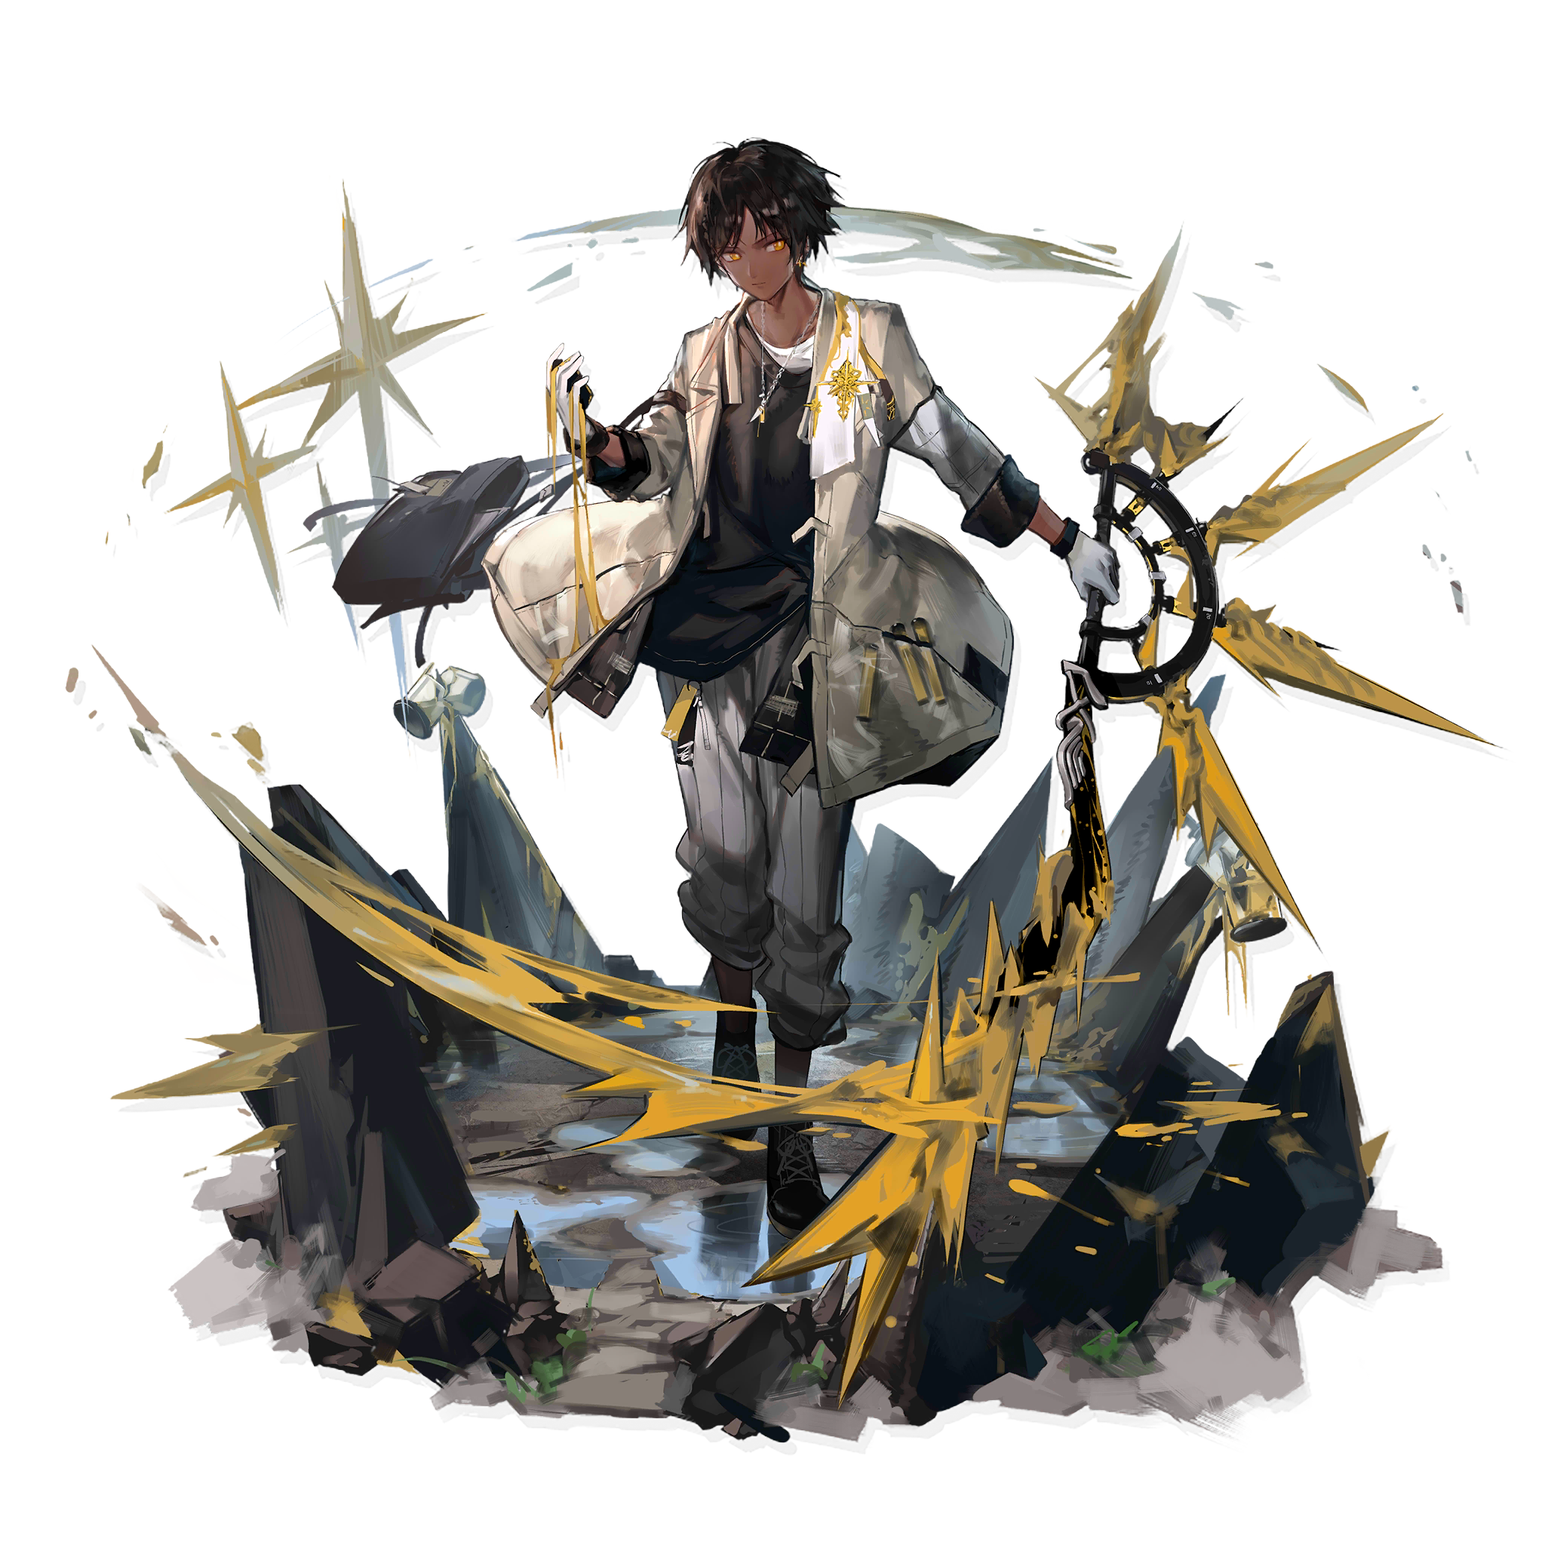
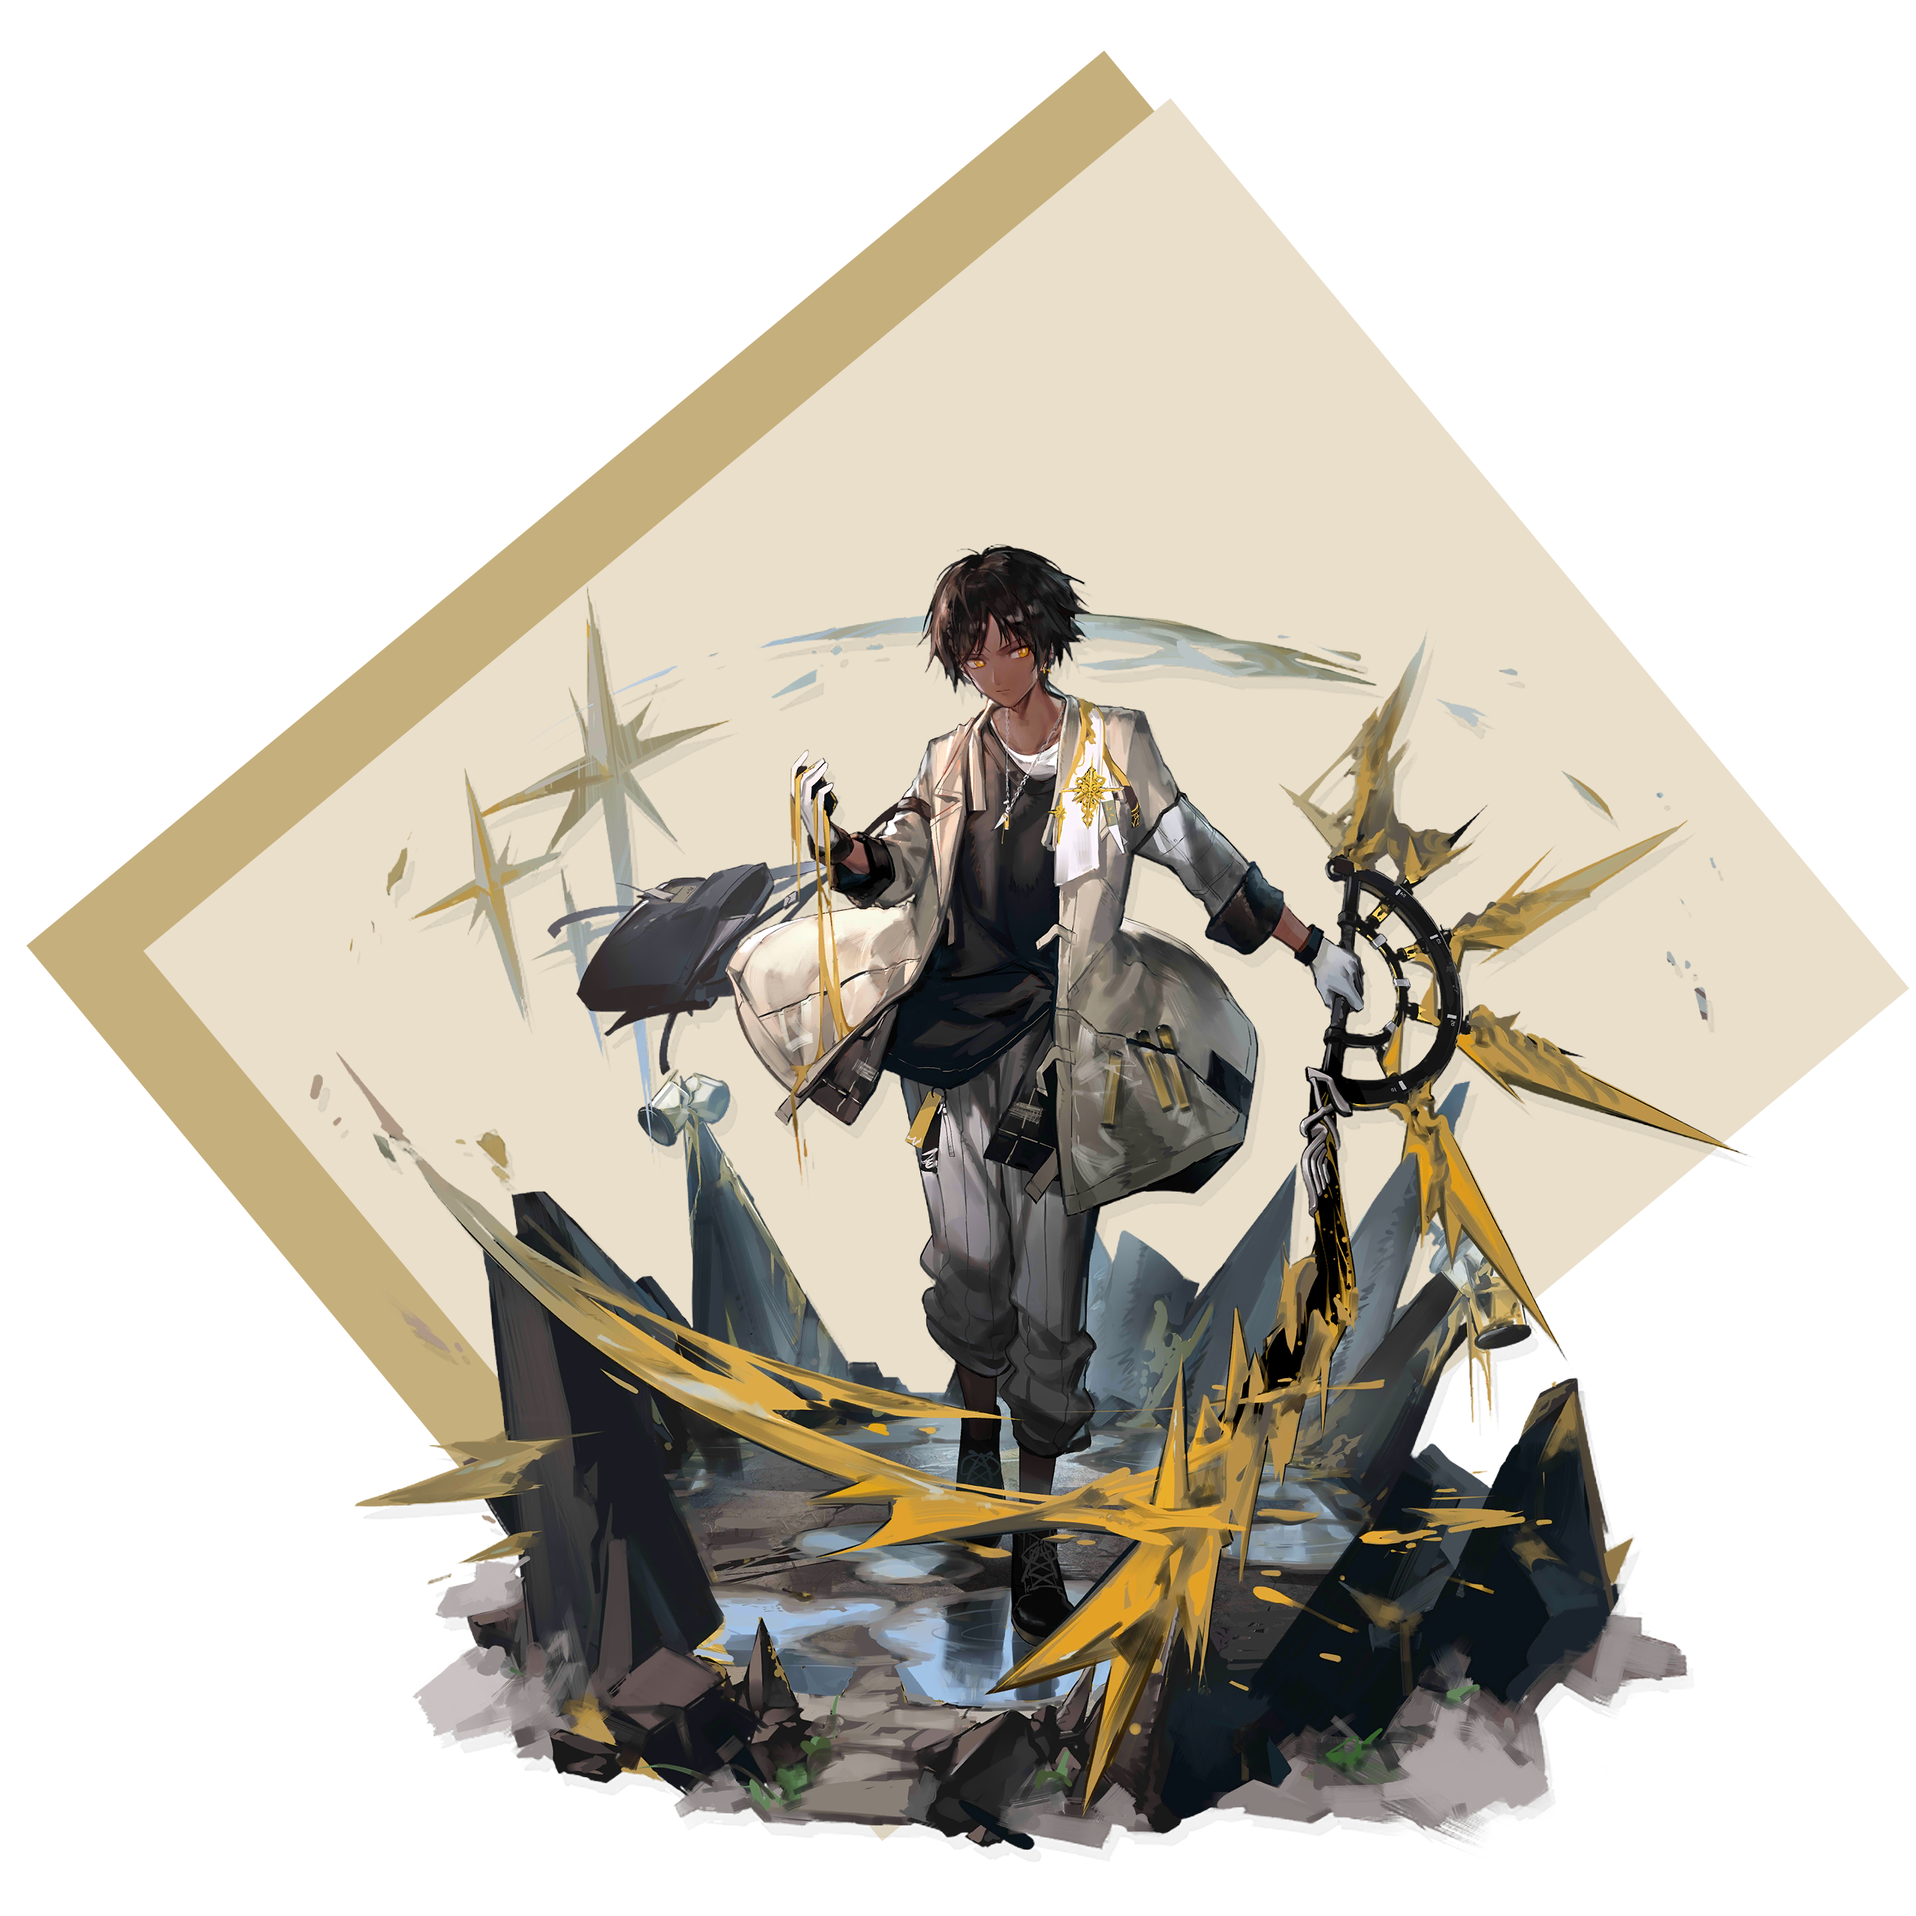
editing header

diff --git a/style.css b/style.css
@@ -6,16 +6,16 @@ body{
     font-family: Proxima;
     margin: 0;
 }
-.header-decor-1{
-    position: absolute;
-    transform: rotate(-30deg);
-    width: 800px; height: 600px;
-    top : -10px;
-    right: 500px;
-    z-index: -3;
-    background-color: #e9dfcb ;
+.header{
+    height: 1000px;
+    position: relative;
 }
-
+.logo{
+    position: absolute;
+    top: -50px;
+    left: 10px;
+    width: 80px;
+}
 ul{
     margin: 50px auto;
     width: 1100px;
@@ -27,7 +27,7 @@ li{
 }
 li a {
     font-size: 25px;
-    color: #c5af7d;
+    color: white;
     display: block;
     padding: 15px 20px;
     border-radius: 3px;
@@ -38,44 +38,36 @@ li a:hover{
 }
 .character{
     z-index: -1;
-    top: 0;
+    top: -250px; left: -150px;
     position: absolute;
-    width: 850px;
+    width: 1050px;
 }
 
 .greetings{
-    color: #414141;
-    line-height: 15px;
+    color: #c5af7d;
     position: relative;
-    top: 40px;
-    right: 50px;
+    top: 70px;
+    right: 100px;
     float: right;
-    width: 400px;
+}
+.greetings h1{
+    font-size: 55px;
 }
 .greetings h2{
     z-index: -1;
-    font-size: 90px;
+    bottom: 25px; right: 150px;
+    font-size: 120px;
     color: #e9dfcb;
     position: absolute;
-    bottom: 50px;
-    right: 230px;
-}
-.greetings h1{
-    line-height: 30px;
-}
-.greetings h1 span{
-    color: #c5af7d;
 }
 
 
-.char-display{
-    position: relative;
-    top: 100px;
-    left: 850px;
-    width: 200px;
-    clear: both;
+
+.headerBackground{
+    opacity: 80%;
+    top: -50px;
+    width: 100%;
+    position: absolute;
+    z-index: -10;
 }
 
-.char-display img{
-    width: 300px;
-}

diff --git a/index.html b/index.html
@@ -9,23 +9,26 @@
     <link rel="stylesheet" href="style.css">
 </head>
 <body>
-  <ul>
-    <li><a href="#about">Blog</a></li>
-    <li><a href="#contact">Work</a></li>
-  </ul>
-  <div class="greetings">
-    <h2>Hello</h2>
-    <h1>I'm Adi Astawa <span>Student</span></h1>
-    <br>
+  <div class="header">
+    <a href="#">
+      <img src="pic/Rhodes.png" alt="" class="logo">
+    </a>
+    <img src="pic/backHeader.jpg" alt="back" class="headerBackground">
+    <ul>
+      <li><a href="#about">Blog</a></li>
+      <li><a href="#contact">Work</a></li>
+    </ul>
+    <div class="greetings">
+      <h2>Hello</h2>
+      <h1>I'm Adi Astawa</h1>
+      <br>
+    </div>
+    <img class="character" src="pic/thorns.png" alt="chara">
+  
+  <div style="background-color: white; position: absolute; bottom: 0; height: 340px; width: 100%; z-index: -7;"></div>
   </div>
-  <div class="header-decor-1"></div>
-  <img class="character" src="pic/thorns.png" alt="chara">
-  
-  
-  <div class="char-display">
-  <img src="pic/char_293_thorns-1.png" alt="">
-  </div>          
 
+  
 
 
 
